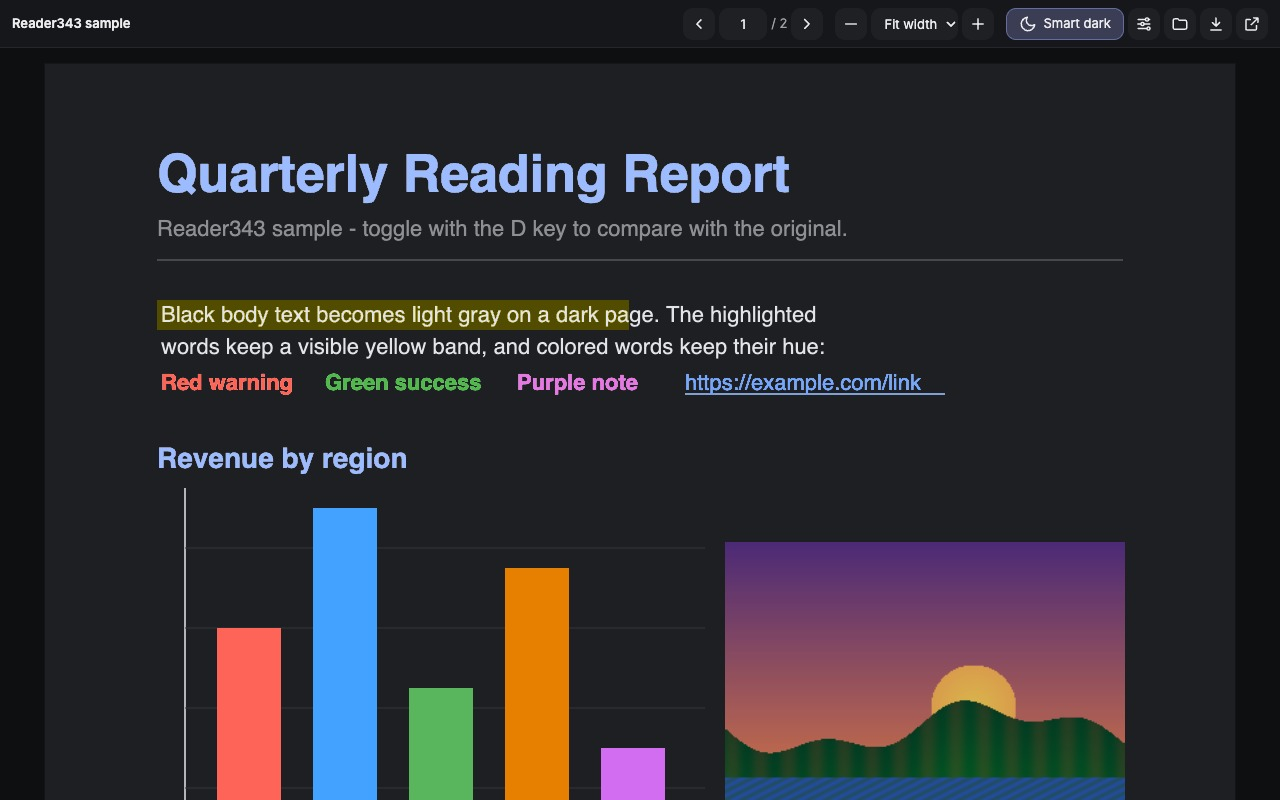
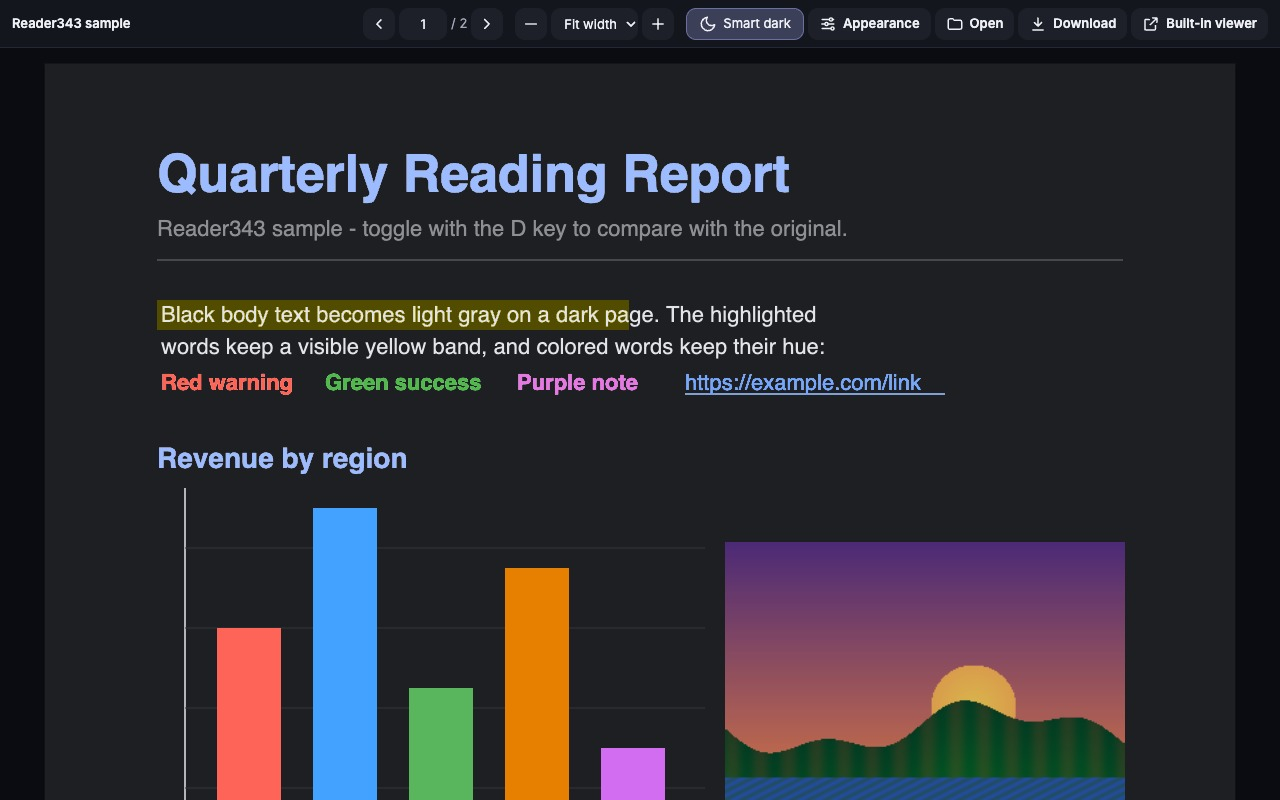
feat: the new look on the public page and in the extension
The public page and the extension's popup, welcome page and viewer take
the colors of the second redesign. The viewer's four tools that were
icons alone carry their names. The extension's store pictures are taken
again.

Changed region(s): [[0.5312, 0.0, 0.9688, 0.0625], [0.4375, 0.0, 0.4688, 0.0312]]

diff --git a/app/public/about/about.css b/app/public/about/about.css
@@ -9,14 +9,15 @@
 }
 :root {
   color-scheme: light dark;
-  --bg: #f3f1ec; --surface: #fbfaf7; --text: #1b1a17; --muted: #68655e; --border: #e2ded5; --border-strong: #cfcabf;
-  --accent: #4353d8; --accent-text: #fff; --accent-soft: #e6e7f6; --accent-strong: #3442b8;
-  --shadow: 0 1px 2px rgb(30 25 15 / 0.05), 0 18px 48px rgb(30 25 15 / 0.14);
+  /* The colors of the app ("Open desk", app/src/app.css). */
+  --bg: #f3f4f8; --surface: #ffffff; --text: #14151a; --muted: #595d6b; --border: #e2e4ec; --border-strong: #cbcfda;
+  --accent: #4f46e5; --accent-2: #7c3aed; --accent-text: #fff; --accent-soft: #ebeafc; --accent-strong: #4038c7;
+  --shadow: 0 1px 2px rgb(20 22 40 / 0.06), 0 18px 48px rgb(20 22 40 / 0.14);
 }
 @media (prefers-color-scheme: dark) {
   :root {
-    --bg: #0e0f11; --surface: #16171a; --text: #ececef; --muted: #9c9da6; --border: #26272c; --border-strong: #37383f;
-    --accent: #9aa5ff; --accent-text: #0b1026; --accent-soft: #1f2140; --accent-strong: #b6bdff;
+    --bg: #0b0c11; --surface: #14161d; --text: #eef0f6; --muted: #a1a6b6; --border: #242836; --border-strong: #363b4c;
+    --accent: #a5abff; --accent-2: #c9a8ff; --accent-text: #0b0d26; --accent-soft: #23264a; --accent-strong: #bfc3ff;
     --shadow: 0 1px 2px rgb(0 0 0 / 0.4), 0 18px 48px rgb(0 0 0 / 0.5);
   }
 }
@@ -41,7 +42,7 @@ a { color: var(--accent-strong); }
 .actions { display: flex; flex-wrap: wrap; justify-content: center; gap: 12px; margin-top: 30px; }
 .btn { display: inline-flex; align-items: center; justify-content: center; min-height: 48px; padding: 0 22px; border-radius: 14px; border: 1px solid var(--border-strong); background: var(--surface); color: var(--text); font-weight: 600; text-decoration: none; transition: transform 0.15s, background 0.15s; }
 .btn:hover { transform: translateY(-1px); }
-.btn.primary { border-color: transparent; background: var(--accent); color: var(--accent-text); }
+.btn.primary { border-color: transparent; background: linear-gradient(135deg, var(--accent), var(--accent-2)); color: var(--accent-text); box-shadow: 0 8px 22px color-mix(in srgb, var(--accent) 30%, transparent); }
 .note { margin-top: 14px; color: var(--muted); font-size: 14px; }
 .shot { display: block; width: 100%; height: auto; border-radius: 16px; border: 1px solid var(--border); box-shadow: var(--shadow); }
 .hero .shot { margin-top: 48px; }

diff --git a/src/viewer/viewer.html b/src/viewer/viewer.html
@@ -51,17 +51,21 @@
         <svg viewBox="0 0 24 24"><path d="M21 12.8A9 9 0 1 1 11.2 3a7 7 0 0 0 9.8 9.8z"/></svg>
         <span>Smart dark</span>
       </button>
-      <button id="settingsBtn" class="icon-btn" title="Appearance" aria-label="Appearance settings" aria-expanded="false" aria-controls="settingsPanel">
+      <button id="settingsBtn" class="icon-btn has-text" title="Appearance" aria-label="Appearance settings" aria-expanded="false" aria-controls="settingsPanel">
         <svg viewBox="0 0 24 24"><path d="M4 6h10M18 6h2M4 12h4M12 12h8M4 18h12M20 18h0"/><circle cx="16" cy="6" r="2"/><circle cx="10" cy="12" r="2"/><circle cx="18" cy="18" r="2"/></svg>
+        <span>Appearance</span>
       </button>
-      <button id="openFile" class="icon-btn" title="Open a PDF file (Ctrl O)" aria-label="Open a PDF file">
+      <button id="openFile" class="icon-btn has-text" title="Open a PDF file (Ctrl O)" aria-label="Open a PDF file">
         <svg viewBox="0 0 24 24"><path d="M3 7a2 2 0 0 1 2-2h4l2 2h8a2 2 0 0 1 2 2v8a2 2 0 0 1-2 2H5a2 2 0 0 1-2-2z"/></svg>
+        <span>Open</span>
       </button>
-      <button id="download" class="icon-btn" title="Download original PDF" aria-label="Download original PDF" disabled>
+      <button id="download" class="icon-btn has-text" title="Download original PDF" aria-label="Download original PDF" disabled>
         <svg viewBox="0 0 24 24"><path d="M12 4v11M7 10l5 5 5-5M5 20h14"/></svg>
+        <span>Download</span>
       </button>
-      <button id="openOriginal" class="icon-btn" title="Open in the browser's built-in viewer" aria-label="Open in the built-in viewer" hidden>
+      <button id="openOriginal" class="icon-btn has-text" title="Open in the browser's built-in viewer" aria-label="Open in the built-in viewer" hidden>
         <svg viewBox="0 0 24 24"><path d="M14 4h6v6M20 4l-9 9M18 14v5a1 1 0 0 1-1 1H5a1 1 0 0 1-1-1V7a1 1 0 0 1 1-1h5"/></svg>
+        <span>Built-in viewer</span>
       </button>
     </div>
 

diff --git a/src/viewer/viewer.css b/src/viewer/viewer.css
@@ -12,14 +12,14 @@
   /* page colors follow the active theme; set from viewer.js */
   --page-bg: rgb(30 31 34);
   --page-fg: rgb(226 228 232);
-  --app-bg: #0e0f11;
-  --bar-bg: #16171a;
-  --bar-border: #26272c;
-  --control-bg: #1f2024;
-  --control-hover: #2a2b31;
-  --text: #ececef;
-  --muted: #9c9da6;
-  --accent: #9aa5ff;
+  --app-bg: #0b0c11;
+  --bar-bg: #14161d;
+  --bar-border: #242836;
+  --control-bg: #1d2029;
+  --control-hover: #2a2e3a;
+  --text: #eef0f6;
+  --muted: #a1a6b6;
+  --accent: #a5abff;
   --danger: #ff8a80;
   --radius: 10px;
 }
@@ -381,3 +381,7 @@ button.primary:hover { filter: brightness(1.08); }
 @media (prefers-reduced-motion: reduce) {
   .loading .bar { animation: none; width: 100%; opacity: 0.6; }
 }
+
+/* Every control has a word: the four tools that were icons alone carry their names (hidden only where the bar has no room). */
+.icon-btn.has-text { display: inline-flex; align-items: center; gap: 6px; width: auto; padding: 0 10px; font-weight: 600; }
+@media (max-width: 900px) { .icon-btn.has-text { width: 32px; padding: 0; justify-content: center; } .icon-btn.has-text span { display: none; } }

diff --git a/src/shared/ui.css b/src/shared/ui.css
@@ -10,14 +10,14 @@
 
 :root {
   color-scheme: dark;
-  --bg: #0e0f11;
-  --surface: #16171a;
-  --border: #26272c;
-  --control: #1f2024;
-  --control-hover: #2a2b31;
-  --text: #ececef;
-  --muted: #9c9da6;
-  --accent: #9aa5ff;
+  --bg: #0b0c11;
+  --surface: #14161d;
+  --border: #242836;
+  --control: #1d2029;
+  --control-hover: #2a2e3a;
+  --text: #eef0f6;
+  --muted: #a1a6b6;
+  --accent: #a5abff;
 }
 
 * { box-sizing: border-box; }
